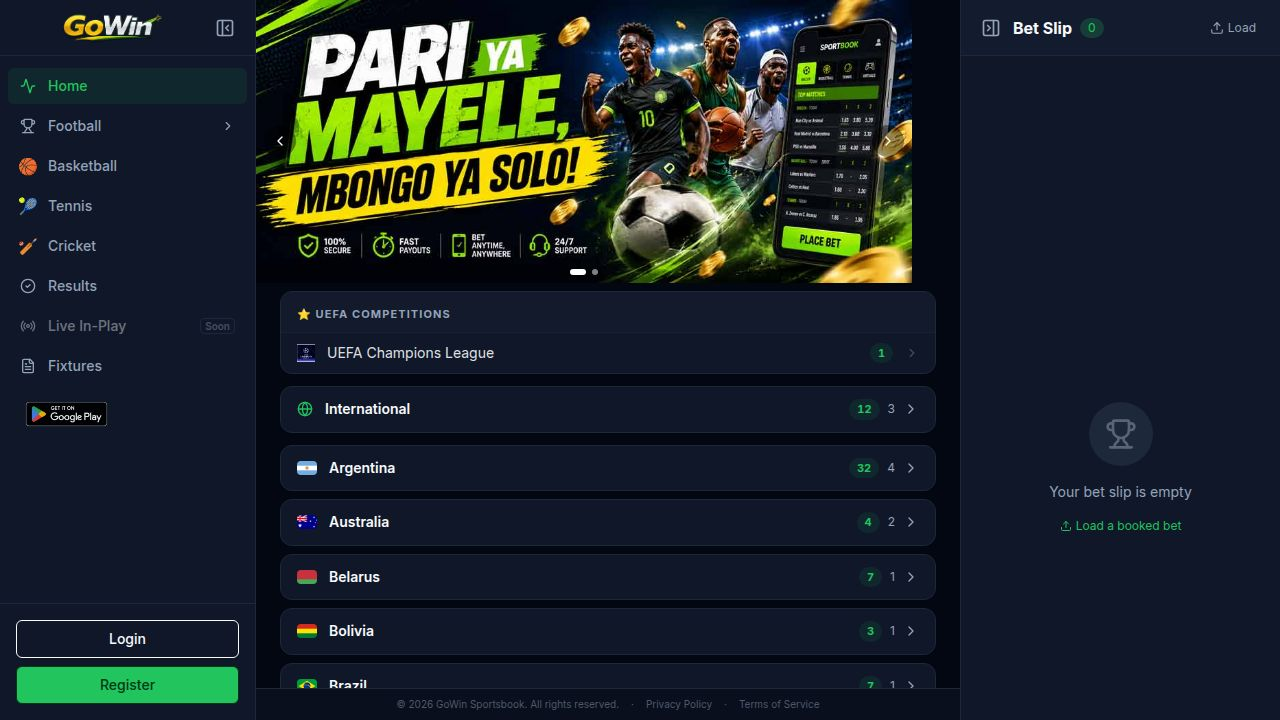
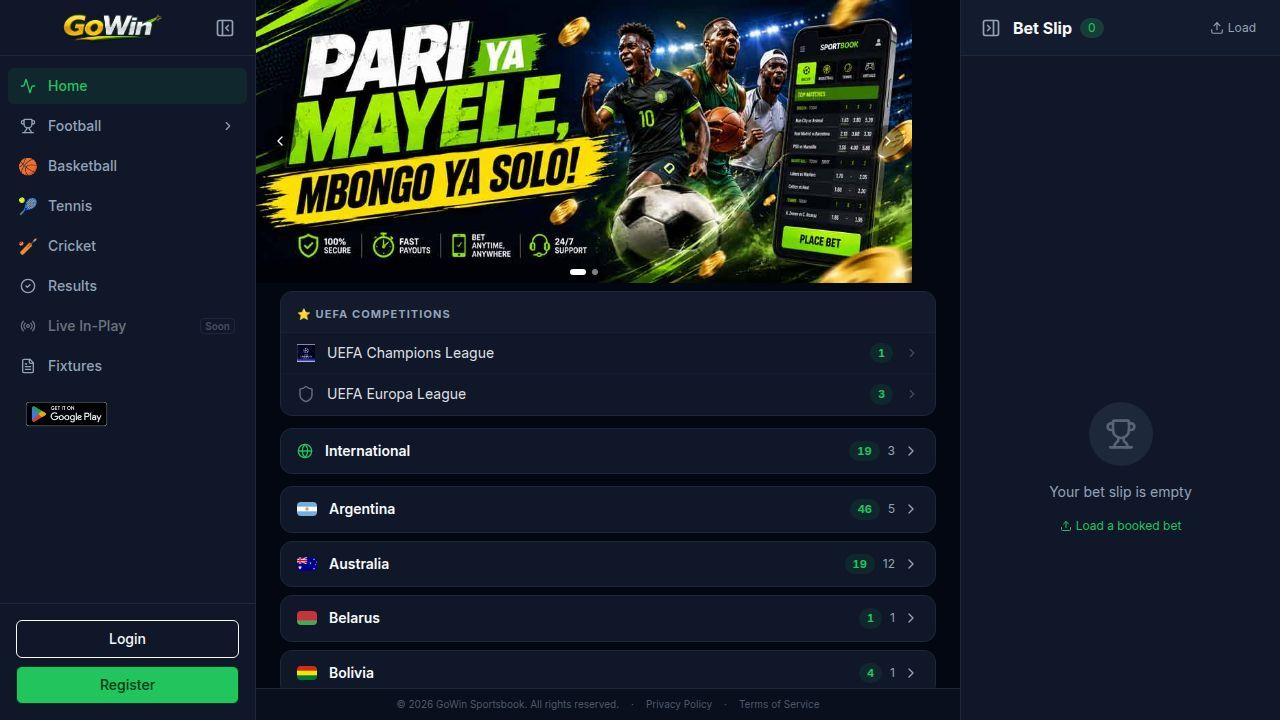
Update odds parsing to handle different sport data structures
Modify the odds refresh logic to correctly parse nested odds data for Basketball, Tennis, and Cricket, and address the API server running from a compiled bundle.

Replit-Commit-Author: Agent
Replit-Commit-Session-Id: 203eb225-987c-45a0-9eae-bce333d0067b
Replit-Commit-Checkpoint-Type: full_checkpoint
Replit-Commit-Event-Id: 130ff109-9469-4a53-8085-7470670a4788
Replit-Commit-Screenshot-Url: https://storage.googleapis.com/screenshot-production-us-central1/a861e337-206e-4c96-98ef-b03fa2e98ece/203eb225-987c-45a0-9eae-bce333d0067b/mzEJgmu
Replit-Helium-Checkpoint-Created: true

diff --git a/artifacts/api-server/src/lib/oddsRefresh.ts b/artifacts/api-server/src/lib/oddsRefresh.ts
@@ -53,6 +53,47 @@ async function fetchApiOdds(apiKey: string, externalId: string, apiBase: string)
   return null;
 }
 
+// Basketball/Tennis/Cricket odds come back from AllSportsAPI as a nested
+// per-market object keyed by outcome → bookmaker → value, e.g.
+// { "Home/Away": { "Home": { "bet365": "1.80", ... }, "Away": { ... } }, ... }
+// This is a different shape than football's flat bookmaker-array format.
+const PREFERRED_BOOKMAKERS = [
+  "bet365", "1xBet", "WilliamHill", "Marathon", "Betano",
+  "Unibet", "Betfair", "BetVictor", "10Bet", "Pncl", "Sbo",
+];
+
+function pickOdd(map?: Record<string, string> | null): number | null {
+  if (!map) return null;
+  for (const bk of PREFERRED_BOOKMAKERS) {
+    const raw = map[bk];
+    if (raw != null) {
+      const v = Number(raw);
+      if (isFinite(v) && v > 1) return v;
+    }
+  }
+  for (const key of Object.keys(map)) {
+    const v = Number(map[key]);
+    if (isFinite(v) && v > 1) return v;
+  }
+  return null;
+}
+
+async function fetchNestedOdds(apiKey: string, externalId: string, apiBase: string): Promise<Record<string, any> | null> {
+  const rawId = externalId.replace(/^(bball_|tennis_|cricket_)/, "");
+  try {
+    const resp = await fetch(
+      `https://apiv2.allsportsapi.com/${apiBase}/?met=Odds&APIkey=${apiKey}&matchId=${rawId}`,
+      { signal: AbortSignal.timeout(8000) },
+    );
+    const data: any = await resp.json();
+    const result = data?.result?.[rawId];
+    if (data?.success === 1 && result && typeof result === "object" && !Array.isArray(result)) {
+      return result;
+    }
+  } catch { /* timeout / network error */ }
+  return null;
+}
+
 async function getOrCreateMarket(fixtureId: number, marketType: string, byType: Map<string, any>): Promise<any> {
   const existing = byType.get(marketType);
   if (existing) return existing;
@@ -170,56 +211,67 @@ async function refreshBasketballFixture(
   fixtureId: number,
   externalId: string,
 ): Promise<boolean> {
-  const bk = await fetchApiOdds(apiKey, externalId, "basketball");
+  const nested = await fetchNestedOdds(apiKey, externalId, "basketball");
 
   await db.execute(sql`
     DELETE FROM odds WHERE market_id IN (SELECT id FROM markets WHERE fixture_id = ${fixtureId})
   `);
-  if (!bk) return false;
+  if (!nested) return false;
 
   const markets = await db.select().from(marketsTable).where(eq(marketsTable.fixtureId, fixtureId));
   const byType = new Map(markets.map((m) => [m.marketType, m]));
   const rows: Array<{ marketId: number; selection: string; oddsValue: string }> = [];
 
   // Moneyline
-  if (valid(bk.odd_1) && valid(bk.odd_2)) {
-    const m = await getOrCreateMarket(fixtureId, "Moneyline", byType);
-    rows.push(
-      { marketId: m.id, selection: "Home", oddsValue: Number(bk.odd_1).toFixed(2) },
-      { marketId: m.id, selection: "Away", oddsValue: Number(bk.odd_2).toFixed(2) },
-    );
-  }
-
-  // Point Spread
-  const spreadPairs: [string, string, string, string][] = [
-    ["ah-10.5_1","ah-10.5_2","-10.5","+10.5"],["ah-7.5_1","ah-7.5_2","-7.5","+7.5"],
-    ["ah-5.5_1","ah-5.5_2","-5.5","+5.5"],["ah-3.5_1","ah-3.5_2","-3.5","+3.5"],
-    ["ah-1.5_1","ah-1.5_2","-1.5","+1.5"],["ah+1.5_1","ah+1.5_2","+1.5","-1.5"],
-    ["ah+3.5_1","ah+3.5_2","+3.5","-3.5"],["ah+5.5_1","ah+5.5_2","+5.5","-5.5"],
-  ];
-  for (const [k1, k2, l1, l2] of spreadPairs) {
-    if (valid(bk[k1]) && valid(bk[k2])) {
-      const m = await getOrCreateMarket(fixtureId, `Point Spread ${l1}`, byType);
+  const ha = nested["Home/Away"];
+  if (ha) {
+    const home = pickOdd(ha.Home);
+    const away = pickOdd(ha.Away);
+    if (home && away) {
+      const m = await getOrCreateMarket(fixtureId, "Moneyline", byType);
       rows.push(
-        { marketId: m.id, selection: `Home (${l1})`, oddsValue: Number(bk[k1]).toFixed(2) },
-        { marketId: m.id, selection: `Away (${l2})`, oddsValue: Number(bk[k2]).toFixed(2) },
+        { marketId: m.id, selection: "Home", oddsValue: home.toFixed(2) },
+        { marketId: m.id, selection: "Away", oddsValue: away.toFixed(2) },
       );
-      break;
     }
   }
 
-  // Total Points O/U
-  const ouLines = ["130.5","140.5","145.5","150.5","155.5","160.5","165.5","170.5",
-                   "175.5","180.5","185.5","190.5","195.5","200.5","210.5","220.5"];
-  for (const line of ouLines) {
-    const overKey = `o+${line}`, underKey = `u+${line}`;
-    if (valid(bk[overKey]) && valid(bk[underKey])) {
-      const m = await getOrCreateMarket(fixtureId, `Total Points ${line}`, byType);
+  // Point Spread
+  const spreadLines = ["-1.5","+1.5","-3.5","+3.5","-5.5","+5.5","-7.5","+7.5","-9.5","+9.5"];
+  for (const line of spreadLines) {
+    const mkt = nested[`Asian Handicap ${line}`];
+    if (mkt) {
+      const home = pickOdd(mkt.Home);
+      const away = pickOdd(mkt.Away);
+      if (home && away) {
+        const oppLine = line.startsWith("-") ? `+${line.slice(1)}` : `-${line.slice(1)}`;
+        const m = await getOrCreateMarket(fixtureId, `Point Spread ${line}`, byType);
+        rows.push(
+          { marketId: m.id, selection: `Home (${line})`, oddsValue: home.toFixed(2) },
+          { marketId: m.id, selection: `Away (${oppLine})`, oddsValue: away.toFixed(2) },
+        );
+        break;
+      }
+    }
+  }
+
+  // Total Points O/U — pick a middle line from whatever the API offers for this match
+  const ouLines = Object.keys(nested)
+    .filter((k) => /^Over\/Under \d/.test(k))
+    .map((k) => ({ key: k, line: parseFloat(k.replace("Over/Under ", "")) }))
+    .filter((x) => isFinite(x.line))
+    .sort((a, b) => a.line - b.line);
+  if (ouLines.length > 0) {
+    const pick = ouLines[Math.floor(ouLines.length / 2)];
+    const mkt = nested[pick.key];
+    const over = pickOdd(mkt.Over);
+    const under = pickOdd(mkt.Under);
+    if (over && under) {
+      const m = await getOrCreateMarket(fixtureId, `Total Points ${pick.line}`, byType);
       rows.push(
-        { marketId: m.id, selection: `Over ${line}`, oddsValue: Number(bk[overKey]).toFixed(2) },
-        { marketId: m.id, selection: `Under ${line}`, oddsValue: Number(bk[underKey]).toFixed(2) },
+        { marketId: m.id, selection: `Over ${pick.line}`, oddsValue: over.toFixed(2) },
+        { marketId: m.id, selection: `Under ${pick.line}`, oddsValue: under.toFixed(2) },
       );
-      break;
     }
   }
 
@@ -234,64 +286,66 @@ async function refreshTennisFixture(
   fixtureId: number,
   externalId: string,
 ): Promise<boolean> {
-  const bk = await fetchApiOdds(apiKey, externalId, "tennis");
+  const nested = await fetchNestedOdds(apiKey, externalId, "tennis");
 
   await db.execute(sql`
     DELETE FROM odds WHERE market_id IN (SELECT id FROM markets WHERE fixture_id = ${fixtureId})
   `);
-  if (!bk) return false;
+  if (!nested) return false;
 
   const markets = await db.select().from(marketsTable).where(eq(marketsTable.fixtureId, fixtureId));
   const byType = new Map(markets.map((m) => [m.marketType, m]));
   const rows: Array<{ marketId: number; selection: string; oddsValue: string }> = [];
 
   // Match Winner
-  if (valid(bk.odd_1) && valid(bk.odd_2)) {
-    const m = await getOrCreateMarket(fixtureId, "Match Winner", byType);
-    rows.push(
-      { marketId: m.id, selection: "Player 1", oddsValue: Number(bk.odd_1).toFixed(2) },
-      { marketId: m.id, selection: "Player 2", oddsValue: Number(bk.odd_2).toFixed(2) },
-    );
-  }
-
-  // Over/Under Games
-  const ouLines = ["15.5","16.5","17.5","18.5","19.5","20.5","21.5","22.5","23.5","24.5","25.5","26.5"];
-  for (const line of ouLines) {
-    const overKey = `o+${line}`, underKey = `u+${line}`;
-    if (valid(bk[overKey]) && valid(bk[underKey])) {
-      const m = await getOrCreateMarket(fixtureId, `Over/Under Games ${line}`, byType);
+  const ha = nested["Home/Away"];
+  if (ha) {
+    const p1 = pickOdd(ha.Home);
+    const p2 = pickOdd(ha.Away);
+    if (p1 && p2) {
+      const m = await getOrCreateMarket(fixtureId, "Match Winner", byType);
       rows.push(
-        { marketId: m.id, selection: `Over ${line}`, oddsValue: Number(bk[overKey]).toFixed(2) },
-        { marketId: m.id, selection: `Under ${line}`, oddsValue: Number(bk[underKey]).toFixed(2) },
+        { marketId: m.id, selection: "Player 1", oddsValue: p1.toFixed(2) },
+        { marketId: m.id, selection: "Player 2", oddsValue: p2.toFixed(2) },
       );
-      break;
     }
   }
 
-  // Game Handicap
-  const ahPairs: [string, string, string, string][] = [
-    ["ah-3.5_1","ah-3.5_2","-3.5","+3.5"],["ah-2.5_1","ah-2.5_2","-2.5","+2.5"],
-    ["ah-1.5_1","ah-1.5_2","-1.5","+1.5"],["ah+1.5_1","ah+1.5_2","+1.5","-1.5"],
-    ["ah+2.5_1","ah+2.5_2","+2.5","-2.5"],["ah+3.5_1","ah+3.5_2","+3.5","-3.5"],
-  ];
-  for (const [k1, k2, l1, l2] of ahPairs) {
-    if (valid(bk[k1]) && valid(bk[k2])) {
-      const m = await getOrCreateMarket(fixtureId, `Game Handicap ${l1}`, byType);
-      rows.push(
-        { marketId: m.id, selection: `Player 1 (${l1})`, oddsValue: Number(bk[k1]).toFixed(2) },
-        { marketId: m.id, selection: `Player 2 (${l2})`, oddsValue: Number(bk[k2]).toFixed(2) },
-      );
-      break;
+  // Over/Under Games — pick a middle line common to both Over and Under sides
+  const overMkt = nested["Over/Under by Games in Match Over"];
+  const underMkt = nested["Over/Under by Games in Match Under"];
+  if (overMkt && underMkt) {
+    const commonLines = Object.keys(overMkt)
+      .filter((l) => underMkt[l] != null && isFinite(Number(l)))
+      .map(Number)
+      .sort((a, b) => a - b);
+    if (commonLines.length > 0) {
+      const line = commonLines[Math.floor(commonLines.length / 2)];
+      const lineKey = String(line);
+      const over = pickOdd(overMkt[lineKey]);
+      const under = pickOdd(underMkt[lineKey]);
+      if (over && under) {
+        const m = await getOrCreateMarket(fixtureId, `Over/Under Games ${line}`, byType);
+        rows.push(
+          { marketId: m.id, selection: `Over ${line}`, oddsValue: over.toFixed(2) },
+          { marketId: m.id, selection: `Under ${line}`, oddsValue: under.toFixed(2) },
+        );
+      }
     }
   }
 
   // First Set Winner
-  if (valid(bk.odd_1fs) && valid(bk.odd_2fs)) {
-    const m = await getOrCreateMarket(fixtureId, "First Set Winner", byType);
-    rows.push(
-      { marketId: m.id, selection: "Player 1", oddsValue: Number(bk.odd_1fs).toFixed(2) },
-      { marketId: m.id, selection: "Player 2", oddsValue: Number(bk.odd_2fs).toFixed(2) },
-    );
+  const fs = nested["Home/Away (1st Set)"];
+  if (fs) {
+    const p1 = pickOdd(fs.Home);
+    const p2 = pickOdd(fs.Away);
+    if (p1 && p2) {
+      const m = await getOrCreateMarket(fixtureId, "First Set Winner", byType);
+      rows.push(
+        { marketId: m.id, selection: "Player 1", oddsValue: p1.toFixed(2) },
+        { marketId: m.id, selection: "Player 2", oddsValue: p2.toFixed(2) },
+      );
+    }
   }
 
   if (rows.length > 0) await db.insert(oddsTable).values(rows);
@@ -305,42 +359,54 @@ async function refreshCricketFixture(
   fixtureId: number,
   externalId: string,
 ): Promise<boolean> {
-  const bk = await fetchApiOdds(apiKey, externalId, "cricket");
+  const nested = await fetchNestedOdds(apiKey, externalId, "cricket");
 
   await db.execute(sql`
     DELETE FROM odds WHERE market_id IN (SELECT id FROM markets WHERE fixture_id = ${fixtureId})
   `);
-  if (!bk) return false;
+  if (!nested) return false;
 
   const markets = await db.select().from(marketsTable).where(eq(marketsTable.fixtureId, fixtureId));
   const byType = new Map(markets.map((m) => [m.marketType, m]));
   const rows: Array<{ marketId: number; selection: string; oddsValue: string }> = [];
 
   // Match Winner
-  if (valid(bk.odd_1) && valid(bk.odd_2)) {
-    const m = await getOrCreateMarket(fixtureId, "Match Winner", byType);
-    rows.push(
-      { marketId: m.id, selection: "Home", oddsValue: Number(bk.odd_1).toFixed(2) },
-      { marketId: m.id, selection: "Away", oddsValue: Number(bk.odd_2).toFixed(2) },
-    );
-    // Draw (test matches)
-    if (valid(bk.odd_x)) {
-      rows.push({ marketId: m.id, selection: "Draw", oddsValue: Number(bk.odd_x).toFixed(2) });
+  const ha = nested["Home/Away"];
+  const threeWay = nested["3Way Result"];
+  if (ha) {
+    const home = pickOdd(ha.Home);
+    const away = pickOdd(ha.Away);
+    if (home && away) {
+      const m = await getOrCreateMarket(fixtureId, "Match Winner", byType);
+      rows.push(
+        { marketId: m.id, selection: "Home", oddsValue: home.toFixed(2) },
+        { marketId: m.id, selection: "Away", oddsValue: away.toFixed(2) },
+      );
+      // Draw (test matches)
+      if (threeWay) {
+        const draw = pickOdd(threeWay.Draw);
+        if (draw) rows.push({ marketId: m.id, selection: "Draw", oddsValue: draw.toFixed(2) });
+      }
     }
   }
 
-  // Total Runs O/U
-  const ouLines = ["140.5","150.5","160.5","170.5","175.5","180.5","190.5","200.5",
-                   "250.5","280.5","300.5","320.5","350.5"];
-  for (const line of ouLines) {
-    const overKey = `o+${line}`, underKey = `u+${line}`;
-    if (valid(bk[overKey]) && valid(bk[underKey])) {
-      const m = await getOrCreateMarket(fixtureId, `Total Runs ${line}`, byType);
+  // Total Runs O/U — pick a middle line from whatever the API offers for this match
+  const ouLines = Object.keys(nested)
+    .filter((k) => /^Over\/Under \d/.test(k))
+    .map((k) => ({ key: k, line: parseFloat(k.replace("Over/Under ", "")) }))
+    .filter((x) => isFinite(x.line))
+    .sort((a, b) => a.line - b.line);
+  if (ouLines.length > 0) {
+    const pick = ouLines[Math.floor(ouLines.length / 2)];
+    const mkt = nested[pick.key];
+    const over = pickOdd(mkt.Over);
+    const under = pickOdd(mkt.Under);
+    if (over && under) {
+      const m = await getOrCreateMarket(fixtureId, `Total Runs ${pick.line}`, byType);
       rows.push(
-        { marketId: m.id, selection: `Over ${line}`, oddsValue: Number(bk[overKey]).toFixed(2) },
-        { marketId: m.id, selection: `Under ${line}`, oddsValue: Number(bk[underKey]).toFixed(2) },
+        { marketId: m.id, selection: `Over ${pick.line}`, oddsValue: over.toFixed(2) },
+        { marketId: m.id, selection: `Under ${pick.line}`, oddsValue: under.toFixed(2) },
       );
-      break;
     }
   }
 

diff --git a/.agents/memory/allsports-odds-format.md b/.agents/memory/allsports-odds-format.md
@@ -1,0 +1,13 @@
+---
+name: AllSportsAPI odds response format differs by sport
+description: Football odds are a flat bookmaker array; Basketball/Tennis/Cricket odds are nested per-market objects. Parsers must branch on sport.
+---
+
+AllSportsAPI's `met=Odds` endpoint returns two incompatible response shapes depending on sport:
+
+- **Football**: `result[matchId]` is an array of bookmaker rows with flat keys per row, e.g. `{ odd_bookmakers: "bet365", odd_1: 2.45, odd_x: 2.75, odd_2: 3.1, ah-1.5_1: ..., o+2.5: ..., bts_yes: ... }`.
+- **Basketball/Tennis/Cricket**: `result[matchId]` is an object keyed by market name → outcome → bookmaker → value, e.g. `{ "Home/Away": { "Home": { "bet365": "1.80", "1xBet": "1.73" }, "Away": {...} }, "Asian Handicap -1": {...}, "Over/Under 180.5": {...} }`.
+
+**Why:** A parser written against the football flat-key shape will silently find no matching fields for the other three sports (fields like `bk.odd_1` are simply `undefined`), so odds rows never get inserted and no error is thrown — this looks like "the API has no odds data" when actually it does, just in a different shape.
+
+**How to apply:** When adding/debugging odds ingestion for a new sport or market from AllSportsAPI, always `curl` the raw `Odds` endpoint for a real matchId first and inspect the actual JSON shape before assuming the football flat-array format applies. Basketball/Cricket 3-way results live under a `"3Way Result"` market key; Tennis has many nested markets (`"Over/Under by Games in Match Over/Under"`, `"Asian Handicap (Games) Home/Away"`, `"Home/Away (1st Set)"`, etc.) — pick a bookmaker per outcome (prefer bet365/1xBet, fall back to first available) rather than assuming one universal bookmaker row like football's `odd_bookmakers` field.

diff --git a/.agents/memory/api-server-dist-bundle.md b/.agents/memory/api-server-dist-bundle.md
@@ -1,0 +1,10 @@
+---
+name: api-server dev script runs the built bundle, not source
+description: The api-server workflow's dev command executes dist/index.mjs — editing src/ files has no effect until a rebuild.
+---
+
+`artifacts/api-server`'s `dev` script is `node --enable-source-maps ./dist/index.mjs` — it runs the pre-built esbuild bundle, not the TypeScript source directly (unlike a typical `tsx watch src/index.ts` dev setup).
+
+**Why:** Restarting the workflow after editing files under `artifacts/api-server/src/` will NOT pick up the changes — it just restarts the stale bundle. This can look like a fix "didn't work" (e.g. same buggy behavior after restart) when actually the new code was never loaded.
+
+**How to apply:** After editing any file in `artifacts/api-server/src/`, run `pnpm --filter @workspace/api-server run build` before `restart_workflow`. Verify behavior changed post-rebuild before concluding a fix failed.

diff --git a/.agents/memory/MEMORY.md b/.agents/memory/MEMORY.md
@@ -3,3 +3,5 @@
 - [DB push workaround](db-push-workaround.md) — drizzle-kit push fails non-TTY; use raw psql for schema changes
 - [PawaPay integration](pawapay-integration.md) — PawaPay mobile money gateway integrated; multi-currency wallets, payment_clerk role, full deposit/withdrawal/clerk flow
 - [Multi-sport sync pattern](multi-sport-sync.md) — SportSyncConfig interface drives Football/Basketball/Tennis/Cricket sync from AllSportsAPI; Tennis uses first_player/second_player fields; sport nav items are dynamic (fetched from /api/sports, Football excluded since it has its own dropdown)
+- [AllSportsAPI odds format](allsports-odds-format.md) — football odds are flat bookmaker rows; Basketball/Tennis/Cricket are nested per-market objects — parsers must branch by sport
+- [api-server runs from dist bundle](api-server-dist-bundle.md) — `pnpm dev` runs `dist/index.mjs`, not source; must rebuild before restart_workflow picks up src/ changes